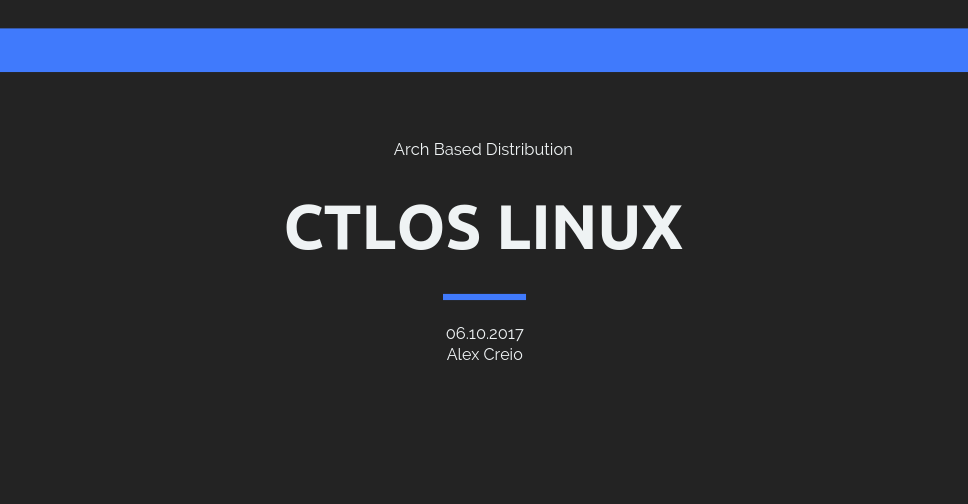
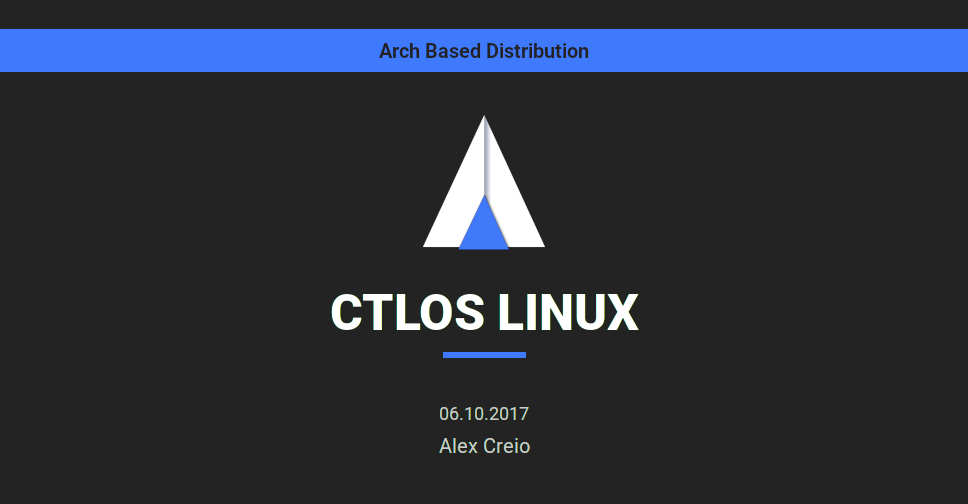
2019.02.17 Update

diff --git a/_layouts/default.html b/_layouts/default.html
@@ -39,7 +39,7 @@
 	<body>
 		<header>
 			<div class="container">
-				<div class="company-name"><a href="{{ site.baseurl }}/">Ctlos</a></div>
+				<div class="company-name"><a href="{{ site.baseurl }}/"><img class="logo" src="{{ site.baseurl }}/assets/img/ctlos.jpg" alt="Ctlos logo"></a></div>
 				{% include navigation.html %}
 			</div>
 		</header>

diff --git a/_sass/landing.scss b/_sass/landing.scss
@@ -1,3 +1,8 @@
+img.logo {
+	width: 50px;
+	height: 50px;
+}
+
 .bottom-cta {
 	background: linear-gradient(to bottom, $brand-color 0%, $middle-gradient-color 100%);
 	color: #fff;
